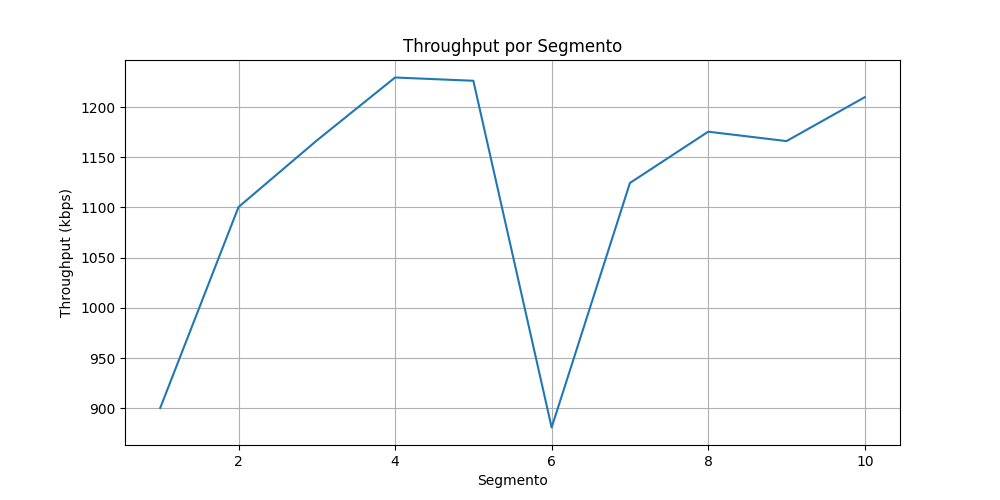
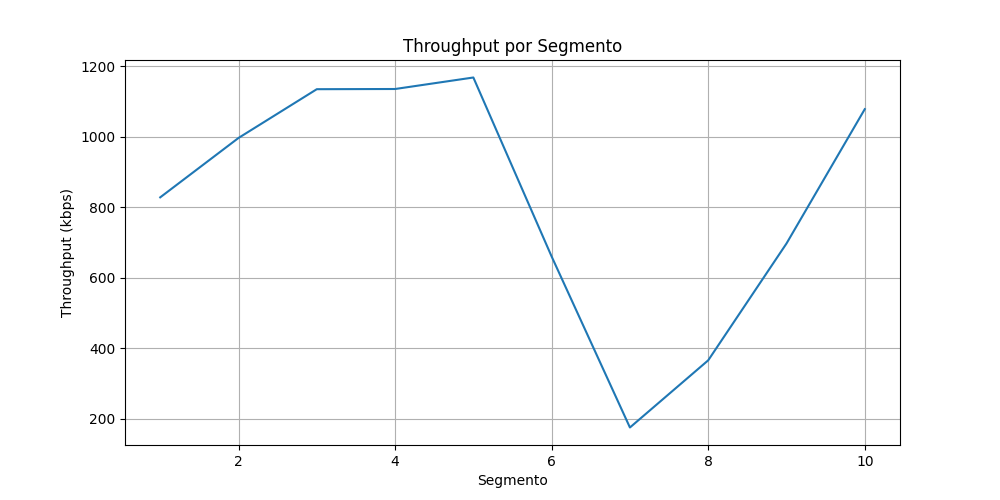
abr

diff --git a/main.py b/main.py
@@ -3,11 +3,13 @@ from downloader import download_segment
 from metrics import initialize_csv, save_metric
 from plot import plot_throughput
 from buffer import BufferManager
+from abr import choose_quality
 
 
 manifest = load_manifest()
 
-SEGMENT_TIME= 2.0
+SEGMENT_TIME = manifest["segment_duration_s"]
+
 buffer_metrics = BufferManager()
 
 server = manifest["servers"][0]
@@ -19,22 +21,35 @@ initialize_csv()
 
 print("\n=== BAIXANDO SEGMENTOS ===\n")
 
-for i in range(10):
+# começa conservadoramente
+current_rep = representations[0]
 
-    rep = representations[i % len(representations)]
+last_throughput = None
+
+for i in range(10):
 
     result = download_segment(
         base_url,
-        rep["url_path"],
-        rep["quality"]
+        current_rep["url_path"],
+        current_rep["quality"]
     )
 
-    buffer_metrics.att_buffer(SEGMENT_TIME, result['download_time_s'])# tempo do segmento é fixo por enquanto
+    buffer_metrics.att_buffer(
+        SEGMENT_TIME,
+        result["download_time_s"]
+    )
 
     save_metric(i + 1, result, buffer_metrics)
 
-    print(f'Segmento {i+1}')
+    print(f"Segmento {i+1}")
     print(result)
     print()
+
+    last_throughput = result["throughput_kbps"]
+
+    current_rep = choose_quality(
+        last_throughput,
+        representations
+    )
 
 plot_throughput()

diff --git a/abr.py b/abr.py
@@ -1,0 +1,15 @@
+def choose_quality(throughput_kbps, representations, safety_factor=0.8):
+    """
+    Escolhe a maior qualidade cujo bitrate seja menor
+    que a vazão disponível com fator de segurança.
+    """
+
+    safe_throughput = throughput_kbps * safety_factor
+
+    chosen = representations[0]
+
+    for rep in representations:
+        if rep["bitrate_kbps"] <= safe_throughput:
+            chosen = rep
+
+    return chosen
